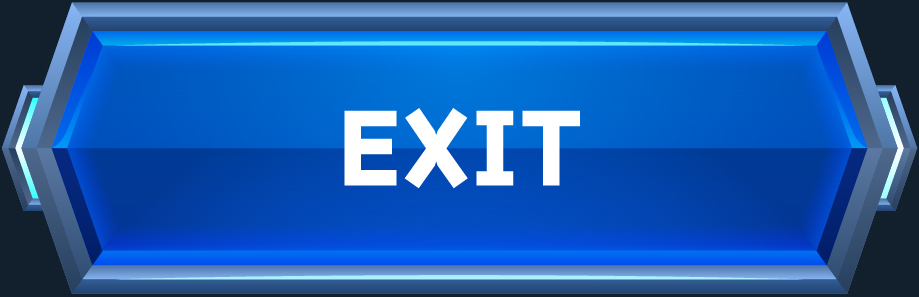
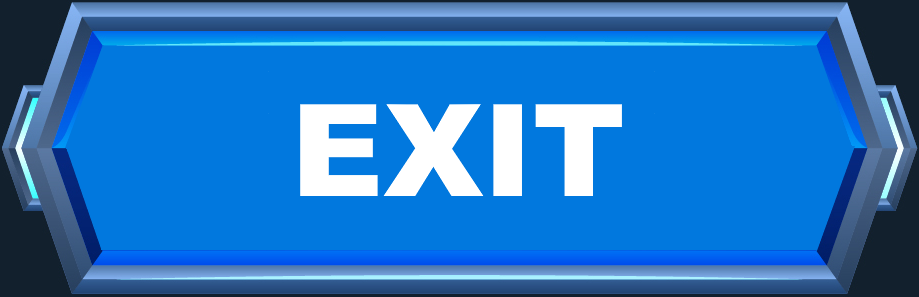
Shop

diff --git a/Jumper/menus.py b/Jumper/menus.py
@@ -19,13 +19,11 @@ class PauseMenu:
         self.change_status = change_status
         self.buttons = pygame.sprite.Group()
 
-        self.buttons.add(Button((WIDTH/2, HEIGHT/10 * 2), self.display_surface, "play", metrics=(150,50), image="/buttons/play")) #Add unpause button
-        #self.buttons.add(Button((WIDTH/2, HEIGHT/10 * 4), self.display_surface, "start_menu", "MAIN MENU")) #Add unpause button
-        #self.buttons.add(Button((WIDTH/2, HEIGHT/10 * 6), self.display_surface, "settings_pause", "SETTINGS")) #Add unpause button
-        #self.buttons.add(Button((WIDTH/2, HEIGHT/10 * 8), self.display_surface, "exit", "EXIT")) #Add unpause button
+        self.buttons.add(Button((WIDTH/2, HEIGHT/10 * 2), self.display_surface, "play", metrics=(150,50), image="/buttons/resume"))
+        self.buttons.add(Button((WIDTH/2, HEIGHT/10 * 4), self.display_surface, "start_menu", metrics=(150,50), image="/buttons/menu"))
+        self.buttons.add(Button((WIDTH/2, HEIGHT/10 * 6), self.display_surface, "settings_pause", metrics=(150,50), image="/buttons/settings"))
+        self.buttons.add(Button((WIDTH/2, HEIGHT/10 * 8), self.display_surface, "exit", metrics=(150,50), image="/buttons/exit"))
         
-        self.font = pygame.font.Font("./fonts/rexlia_rg.otf", 30)
-
     def show_menu(self, event_list):
         self.display_surface.fill((18,32,45))
         # self.buttons.draw(self.display_surface)
@@ -34,7 +32,7 @@ class PauseMenu:
 
         for event in event_list:
             if event.type == pygame.MOUSEBUTTONUP:
-                pos = pygame.mouse.get_pos()
+                pos = get_mouse_pos()
                 print(pos)
                 for x in self.buttons:
                     if x.rect.collidepoint(pos):
@@ -54,14 +52,15 @@ class ShopMenu:
         self.fans = 0
         self.cpus = 0
         self.frames = 0
-        self.buttons.add(Button((WIDTH/2, HEIGHT/10 * 7), self.display_surface, "start_menu", "BACK")) #Add unpause button
-        self.buttons.add(Button((WIDTH/8 * 1, HEIGHT/10 * 3), self.display_surface, "gpu", "BUY", metrics=(60, 60), fontsize=15)) #Add unpause button
-        self.buttons.add(Button((WIDTH/8 * 2, HEIGHT/10 * 3), self.display_surface, "microchip", "BUY", metrics=(60, 60), fontsize=15)) #Add unpause button
-        self.buttons.add(Button((WIDTH/8 * 3, HEIGHT/10 * 3), self.display_surface, "mb", "BUY", metrics=(60, 60), fontsize=15)) #Add unpause button
-        self.buttons.add(Button((WIDTH/8 * 4, HEIGHT/10 * 3), self.display_surface, "psu", "BUY", metrics=(60, 60), fontsize=15)) #Add unpause button
-        self.buttons.add(Button((WIDTH/8 * 5, HEIGHT/10 * 3), self.display_surface, "fan", "BUY", metrics=(60, 60), fontsize=15)) #Add unpause button
-        self.buttons.add(Button((WIDTH/8 * 6, HEIGHT/10 * 3), self.display_surface, "cpu", "BUY", metrics=(60, 60), fontsize=15)) #Add unpause button
-        self.buttons.add(Button((WIDTH/8 * 7, HEIGHT/10 * 3), self.display_surface, "frame", "BUY", metrics=(60, 60), fontsize=15)) #Add unpause button
+        self.buttons.add(Button((WIDTH/2, HEIGHT/10 * 9), self.display_surface, "start_menu", metrics=(150,50), image="/buttons/menu")) #Add unpause button
+        self.buttons.add(Button((WIDTH/8 * 2, HEIGHT/10 * 3), self.display_surface, "microchip", metrics=(40,40), image="/shop/microchip", fontsize=15)) #Add unpause button
+        self.buttons.add(Button((WIDTH/8 * 6, HEIGHT/10 * 3), self.display_surface, "build", metrics=(80,80), image="/shop/build", fontsize=15)) #Add unpause button
+        self.buttons.add(Button((WIDTH/8 * 2, HEIGHT/10 * 4), self.display_surface, "mb", metrics=(50,50), image="/shop/mb", fontsize=15)) #Add unpause button
+        self.buttons.add(Button((WIDTH/8 * 4, HEIGHT/10 * 4), self.display_surface, "gpu", metrics=(50,50), image="/shop/gpu", fontsize=15)) #Add unpause button
+        self.buttons.add(Button((WIDTH/8 * 6, HEIGHT/10 * 4), self.display_surface, "cpu", metrics=(50,50), image="/shop/cpu", fontsize=15)) #Add unpause button
+        self.buttons.add(Button((WIDTH/8 * 2, HEIGHT/10 * 6), self.display_surface, "fan", metrics=(50,50), image="/shop/fan", fontsize=15)) #Add unpause button
+        self.buttons.add(Button((WIDTH/8 * 4, HEIGHT/10 * 6), self.display_surface, "frame", metrics=(50,50), image="/shop/case", fontsize=15)) #Add unpause button
+        self.buttons.add(Button((WIDTH/8 * 6, HEIGHT/10 * 6), self.display_surface, "psu", metrics=(50,50), image="/shop/psu", fontsize=15)) #Add unpause button
         self.font1 = pygame.font.Font("./fonts/rexlia_rg.otf", 30)
         self.font2= pygame.font.Font("./fonts/rexlia_rg.otf", 15)
         self.update()
@@ -77,6 +76,7 @@ class ShopMenu:
         self.fans = data["fans"]
         self.cpus = data["cpus"]
         self.frames = data["frames"]
+        self.builds = data["builds"]
 
     def buy(self, item):
         if item == "gpu":
@@ -113,73 +113,53 @@ class ShopMenu:
             if self.microchips - prices["frame"] >= 0:
                 update_stock("frames", 1)
                 update_stock("microchips", -1 * prices["frame"])
-        
+
+        elif item == "build":
+            if (self.mbs - 1 >= 0 and
+                self.gpus -1 >= 0 and
+                self.cpus -1 >= 0 and
+                self.fans -3 >= 0 and
+                self.frames -1 >= 0 and
+                self.psus -1 >= 0 ):
+
+                update_stock("builds", 1)
+                update_stock("mbs", -1)
+                update_stock("gpus", -1)
+                update_stock("cpus", -1)
+                update_stock("fans", -3)
+                update_stock("frames", -1)
+                update_stock("psus", -1)     
         self.update()
 
+    def draw_text(self, part, amount, pos1, pos2):
+        sfx_label = self.font2.render(part, False, "white")
+        sfx_rect = sfx_label.get_rect(center = (pos1, pos2))
+        self.display_surface.blit(sfx_label, sfx_rect)
+        sfx_label = self.font2.render(str(amount), False, "white")
+        sfx_rect = sfx_label.get_rect(center = (pos1, pos2 * 0.125))
+        self.display_surface.blit(sfx_label, sfx_rect)
+
     def show_menu(self, event_list):
-        self.display_surface.fill(('10','26','41'))
+        self.display_surface.fill((18,32,45))
         # self.buttons.draw(self.display_surface)
         for button in self.buttons.sprites():
             button.draw()
 
-        sfx_label = self.font1.render("Money: " + str("%.2f" % round(self.money,2)), False, "#53f53f")
+        sfx_label = self.font1.render("Money: " + str("%.2f" % round(self.money,2)), False, "white")
         sfx_rect = sfx_label.get_rect(center = (WIDTH/2, HEIGHT/10 * 1))
         self.display_surface.blit(sfx_label, sfx_rect)
 
-        sfx_label = self.font1.render("Microchips: " + str(self.microchips), False, "#53f53f")
+        sfx_label = self.font1.render("Microchips: " + str(self.microchips), False, "white")
         sfx_rect = sfx_label.get_rect(center = (WIDTH/2, HEIGHT/10 * 2))
         self.display_surface.blit(sfx_label, sfx_rect)
 
-        sfx_label = self.font2.render("GPU", False, "#53f53f")
-        sfx_rect = sfx_label.get_rect(center = (WIDTH/8 * 1, HEIGHT/10 * 4))
-        self.display_surface.blit(sfx_label, sfx_rect)
-        sfx_label = self.font2.render(str(self.gpus), False, "#53f53f")
-        sfx_rect = sfx_label.get_rect(center = (WIDTH/8 * 1, HEIGHT/10 * 4.25))
-        self.display_surface.blit(sfx_label, sfx_rect)
-
-        sfx_label = self.font2.render("MC", False, "#53f53f")
-        sfx_rect = sfx_label.get_rect(center = (WIDTH/8 * 2, HEIGHT/10 * 4))
-        self.display_surface.blit(sfx_label, sfx_rect)
-        sfx_label = self.font2.render(str(self.microchips), False, "#53f53f")
-        sfx_rect = sfx_label.get_rect(center = (WIDTH/8 * 2, HEIGHT/10 * 4.25))
-        self.display_surface.blit(sfx_label, sfx_rect)
-
-        sfx_label = self.font2.render("MB", False, "#53f53f")
-        sfx_rect = sfx_label.get_rect(center = (WIDTH/8 * 3, HEIGHT/10 * 4))
-        self.display_surface.blit(sfx_label, sfx_rect)
-        sfx_label = self.font2.render(str(self.mbs), False, "#53f53f")
-        sfx_rect = sfx_label.get_rect(center = (WIDTH/8 * 3, HEIGHT/10 * 4.25))
-        self.display_surface.blit(sfx_label, sfx_rect)
-
-        sfx_label = self.font2.render("PSU", False, "#53f53f")
-        sfx_rect = sfx_label.get_rect(center = (WIDTH/8 * 4, HEIGHT/10 * 4))
-        self.display_surface.blit(sfx_label, sfx_rect)
-        sfx_label = self.font2.render(str(self.psus), False, "#53f53f")
-        sfx_rect = sfx_label.get_rect(center = (WIDTH/8 * 4, HEIGHT/10 * 4.25))
-        self.display_surface.blit(sfx_label, sfx_rect)
-
-        sfx_label = self.font2.render("FAN", False, "#53f53f")
-        sfx_rect = sfx_label.get_rect(center = (WIDTH/8 * 5, HEIGHT/10 * 4))
-        self.display_surface.blit(sfx_label, sfx_rect)
-        sfx_label = self.font2.render(str(self.fans), False, "#53f53f")
-        sfx_rect = sfx_label.get_rect(center = (WIDTH/8 * 5, HEIGHT/10 * 4.25))
-        self.display_surface.blit(sfx_label, sfx_rect)
-
-        sfx_label = self.font2.render("CPU", False, "#53f53f")
-        sfx_rect = sfx_label.get_rect(center = (WIDTH/8 * 6, HEIGHT/10 * 4))
-        self.display_surface.blit(sfx_label, sfx_rect)
-        sfx_label = self.font2.render(str(self.cpus), False, "#53f53f")
-        sfx_rect = sfx_label.get_rect(center = (WIDTH/8 * 6, HEIGHT/10 * 4.25))
-        self.display_surface.blit(sfx_label, sfx_rect)
-
-        sfx_label = self.font2.render("FRAME", False, "#53f53f")
-        sfx_rect = sfx_label.get_rect(center = (WIDTH/8 * 7, HEIGHT/10 * 4))
-        self.display_surface.blit(sfx_label, sfx_rect)
-        sfx_label = self.font2.render(str(self.frames), False, "#53f53f")
-        sfx_rect = sfx_label.get_rect(center = (WIDTH/8 * 7, HEIGHT/10 * 4.25))
-        self.display_surface.blit(sfx_label, sfx_rect)
-
-        
+        self.draw_text("MC", self.microchips, WIDTH/8 *2, HEIGHT/10 *3)
+        self.draw_text("MB", self.mbs, WIDTH/8 *2, HEIGHT/10 *5)
+        self.draw_text("GPU", self.gpus, WIDTH/8 *4, HEIGHT/10 *5)
+        self.draw_text("CPU", self.cpus, WIDTH/8 *6, HEIGHT/10 *5)
+        self.draw_text("FAN", self.fans, WIDTH/8 *2, HEIGHT/10 *7)
+        self.draw_text("FRAME", self.frames, WIDTH/8 *4, HEIGHT/10 *7)       
+        self.draw_text("PSU", self.psus, WIDTH/8 *6, HEIGHT/10 *7)
 
         for event in event_list:
             if event.type == pygame.MOUSEBUTTONUP:
@@ -202,6 +182,8 @@ class ShopMenu:
                             self.buy("cpu")
                         elif x.type == "frame":
                             self.buy("frame")
+                        elif x.type == "build":
+                            self.buy("build")
                         else:
                             self.change_status(x.type)
 
@@ -210,10 +192,10 @@ class StartMenu:
         self.display_surface = surface
         self.change_status = change_status
         self.buttons = pygame.sprite.Group()
-        self.buttons.add(Button((WIDTH/2, HEIGHT/10 * 4), self.display_surface, "newgame", "PLAY"))
-        self.buttons.add(Button((WIDTH/2, HEIGHT/10 * 5), self.display_surface, "shop_menu", "SHOP"))
-        self.buttons.add(Button((WIDTH/2, HEIGHT/10 * 6), self.display_surface, "settings_menu", "SETTINGS"))
-        self.buttons.add(Button((WIDTH/2, HEIGHT/10 * 7), self.display_surface, "exit", "EXIT"))
+        self.buttons.add(Button((WIDTH/2, HEIGHT/10 * 4), self.display_surface, "newgame", metrics=(150,50), image="/buttons/play"))
+        self.buttons.add(Button((WIDTH/2, HEIGHT/10 * 5), self.display_surface, "shop_menu", metrics=(150,50), image="/buttons/shop"))
+        self.buttons.add(Button((WIDTH/2, HEIGHT/10 * 6), self.display_surface, "settings_menu", metrics=(150,50), image="/buttons/settings"))
+        self.buttons.add(Button((WIDTH/2, HEIGHT/10 * 7), self.display_surface, "exit", metrics=(150,50), image="/buttons/exit"))
         self.score = 0
         self.player_name = return_json_data()["player_name"]
         self.font = pygame.font.Font("./fonts/rexlia_rg.otf", 30)
@@ -229,11 +211,11 @@ class StartMenu:
         for button in self.buttons.sprites():
             button.draw()
 
-        sfx_label = self.font.render("High score: " + str(self.score), False, "#53f53f")
+        sfx_label = self.font.render("High score: " + str(self.score), False, "white")
         sfx_rect = sfx_label.get_rect(center = (WIDTH/2, HEIGHT/10 * 2))
         self.display_surface.blit(sfx_label, sfx_rect)
 
-        sfx_label = self.font.render("Player: " + str(self.player_name), False, "#53f53f")
+        sfx_label = self.font.render("Player: " + str(self.player_name), False, "white")
         sfx_rect = sfx_label.get_rect(center = (WIDTH/2, HEIGHT/10 * 1))
         self.display_surface.blit(sfx_label, sfx_rect)
 
@@ -254,9 +236,9 @@ class SettingsMenuMenu:
         self.change_status = change_status
         self.buttons = pygame.sprite.Group()
         # self.buttons.add(Button((WIDTH/2, HEIGHT/10 * 6), self.display_surface, "start_menu", "CHANGE NAME"))
-        self.buttons.add(Button((WIDTH/2, HEIGHT/10 * 7), self.display_surface, "start_menu", "BACK"))
-        self.buttons.add(Button((WIDTH/14 * 5, HEIGHT/10 * 4), self.display_surface, "volume", "-", (50, 50)))
-        self.buttons.add(Button((WIDTH/14 * 9, HEIGHT/10 * 4), self.display_surface, "volume", "+", (50, 50)))
+        self.buttons.add(Button((WIDTH/2, HEIGHT/10 * 7), self.display_surface, "start_menu", metrics=(150,50), image="/buttons/menu"))
+        self.buttons.add(Button((WIDTH/14 * 5, HEIGHT/10 * 4), self.display_surface, "volume", "-", metrics=(50,50), image="/buttons/minus"))
+        self.buttons.add(Button((WIDTH/14 * 9, HEIGHT/10 * 4), self.display_surface, "volume", "+", metrics=(50,50), image="/buttons/plus"))
         
         self.font = pygame.font.Font("./fonts/rexlia_rg.otf", 30)
 
@@ -266,7 +248,7 @@ class SettingsMenuMenu:
         for button in self.buttons.sprites():
             button.draw()
 
-        sfx_label = self.font.render(str(self.settings.sfx), False, "#53f53f")
+        sfx_label = self.font.render(str(self.settings.sfx), False, "white")
         sfx_rect = sfx_label.get_rect(center = (WIDTH/14*7, HEIGHT/10 * 4))
         self.display_surface.blit(sfx_label, sfx_rect)
 
@@ -292,9 +274,9 @@ class SettingsMenuPause:
         self.display_surface = surface
         self.change_status = change_status
         self.buttons = pygame.sprite.Group()
-        self.buttons.add(Button((WIDTH/2, HEIGHT/2), self.display_surface, "pause", "BACK"))
-        self.buttons.add(Button((WIDTH/14 * 5, HEIGHT/10 * 4), self.display_surface, "volume", "-", (50, 50)))
-        self.buttons.add(Button((WIDTH/14 * 9, HEIGHT/10 * 4), self.display_surface, "volume", "+", (50, 50)))
+        self.buttons.add(Button((WIDTH/2, HEIGHT/2), self.display_surface, "pause", metrics=(150,50), image="/buttons/back"))
+        self.buttons.add(Button((WIDTH/14 * 5, HEIGHT/10 * 4), self.display_surface, "volume", "-", metrics=(50,50), image="/buttons/minus"))
+        self.buttons.add(Button((WIDTH/14 * 9, HEIGHT/10 * 4), self.display_surface, "volume", "+", metrics=(50,50), image="/buttons/plus"))
         
         self.font = pygame.font.Font("./fonts/rexlia_rg.otf", 30)
 
@@ -304,7 +286,7 @@ class SettingsMenuPause:
         for button in self.buttons.sprites():
             button.draw()
 
-        sfx_label = self.font.render(str(self.settings.sfx), False, "#53f53f")
+        sfx_label = self.font.render(str(self.settings.sfx), False, "white")
         sfx_rect = sfx_label.get_rect(center = (WIDTH/14*7, HEIGHT/10 * 4))
         self.display_surface.blit(sfx_label, sfx_rect)
 

diff --git a/Jumper/functions.py b/Jumper/functions.py
@@ -2,6 +2,9 @@ import pygame
 import os
 import json
 
+def get_mouse_pos():
+    return pygame.mouse.get_pos()
+
 def load_image(src, sc1, sc2, flipped=False):
     if flipped:
         return pygame.transform.flip(pygame.transform.scale(pygame.image.load("./assets/" + src + ".png"), (sc1, sc2)), True, False)
@@ -51,6 +54,7 @@ def create_new_json():
         "fans": 0,
         "cpus": 0,
         "frames": 0,
+        "builds": 0,
     }
     with open(filepath, "w") as f:
         json.dump(dictionary, f)

diff --git a/Jumper/pickups.py b/Jumper/pickups.py
@@ -9,7 +9,7 @@ class Pickups(pygame.sprite.Sprite):
         self.image = pygame.Surface((75,75))
         self.type = type
         if self.type == "shield":
-            self.image = load_image('binary-shield', 75, 75)
+            self.image = load_image('shield', 75, 75)
         elif self.type == "microchip":
             self.image = load_image('enemy-fly', 50, 50)
         self.rect = self.image.get_rect(topleft = (posx, posy))

diff --git a/Jumper/ui.py b/Jumper/ui.py
@@ -7,6 +7,6 @@ class UI:
         self.font = pygame.font.Font("./fonts/rexlia_rg.otf", 30)
 
     def show_score(self, score):
-        score_surf = self.font.render(str(score), False, "#53f53f")
+        score_surf = self.font.render(str(score), False, "white")
         score_rect = score_surf.get_rect(center = (WIDTH/2, 60))
         self.display_surface.blit(score_surf, score_rect)

diff --git a/Jumper/player.py b/Jumper/player.py
@@ -121,7 +121,7 @@ class Shield(pygame.sprite.Sprite):
         super().__init__()
         self.pos = pos
         self.image = pygame.Surface((100,100))
-        self.image = load_image('binary-shield', 100, 100)
+        self.image = load_image('shield', 100, 100)
         self.rect = self.image.get_rect(center = pos)
         self.start = 0
 

diff --git a/Jumper/main.py b/Jumper/main.py
@@ -80,5 +80,6 @@ while True:
     game.run(event_list)
 
     display.blit(pygame.transform.scale(screen, (display.get_width(), display.get_height())), (0, 0))
+    print(HEIGHT, display.get_height())
     pygame.display.update()
     clock.tick(fps)

diff --git a/Jumper/level.py b/Jumper/level.py
@@ -9,7 +9,7 @@ from settings import *
 from math import pow
 from ui import UI
 
-background = load_image('bck', WIDTH,HEIGHT)
+background = load_image('bck2', WIDTH,HEIGHT)
 
 class Level:
     def __init__(self, surface, settings, change_status):

diff --git a/Jumper/settings.py b/Jumper/settings.py
@@ -1,7 +1,7 @@
 import pygame
 
 WIDTH = 400
-HEIGHT = 400
+HEIGHT = 600
 fps = 60
 
 import pygame
